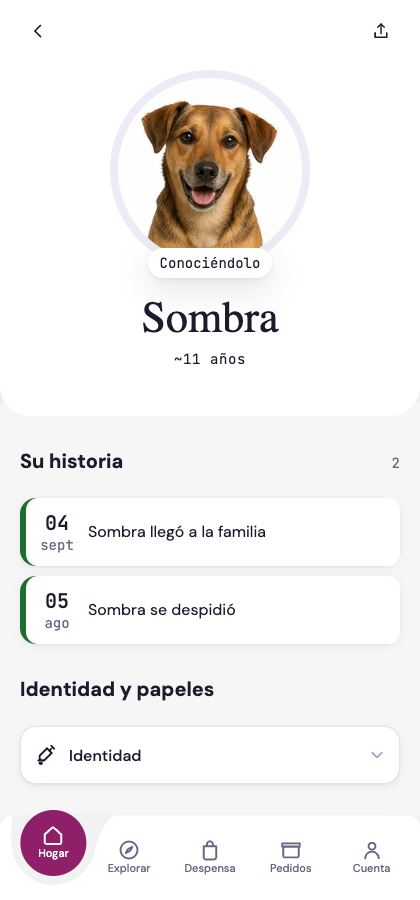
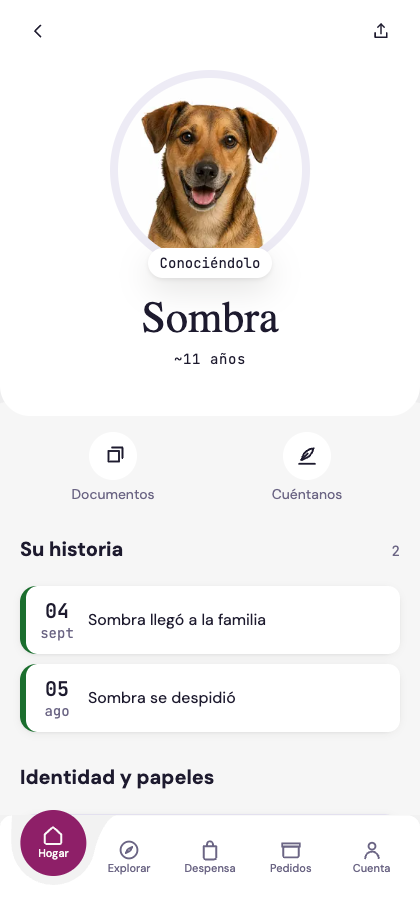
S113-C · 2.2.4 — las cuatro acciones, enchufadas
EL GATE SE PUSO ROJO SOLO. Al mergear B@330d903e,
`verify:documentos-preparado` pasó a rojo sin que nadie lo tocara y dijo qué
hacer: «el bloqueante se fue — enchufá el mecanismo… y borrá este gate, que
existió sólo para que este día no pasara en silencio». Ejecutado: enchufado
y borrado. ☠ *Un gate que cumple su función se retira; el que sobrevive a su
razón es basura que nadie se anima a tocar (Ley 37).*

MEDIDO en web con los tres:
  Thor    Citas · Pasaporte y QR · Documentos · Cuéntanos
  Lolo    Citas · Pasaporte y QR · Documentos · Cuéntanos
  Sombra  Documentos · Cuéntanos            ← firma del founder
  0 errores de página · orden del perfil ✓ · truncados 0

MEMORIAL: la regla vieja NO cambió — cambió su conjunto.
Antes no se dibujaba ninguna, con la razón «las cuatro piden o llevan a
pedir». Era cierto de las cuatro de entonces: con Nexo adentro y sin
Documentos, ninguna sobrevivía el filtro. *La regla es la misma; lo que
cambió es a qué se le aplica.* Las dos que salen miran hacia adelante
—agendar, encontrar a alguien que se perdió—; las dos que quedan miran lo
que hubo.

DOS ENMIENDAS ADITIVAS A PIEZAS DE B, DECLARADAS (76d)

① FilaAcciones admite DOS. Su tipo era [3]|[4], y su cabecera decía por qué
tres era legal: «es el caso que la pieza ya producía —memorial dejaba tres al
esconder a Nexo—; un tipo que sólo admitiera cuatro habría vuelto inexpresable
un estado que existía». **Es el mismo argumento un paso más allá**: la firma
[…]

diff --git a/apps/cliente/src/app/(tabs)/hogar/mascota/[mascotaId].tsx b/apps/cliente/src/app/(tabs)/hogar/mascota/[mascotaId].tsx
@@ -1431,39 +1431,69 @@ export default function PerfilDeMascota() {
             al morir, el hero cierra contra las acciones. Ley 37: se retira
             entero, no se comenta. */}
 
-        {/* ⭐ **C3 · LAS CUATRO ACCIONES, bajo el hero** (S113-C · 2.2).
-            El brief las pone segundas y tiene razón: *son lo que la familia
-            viene a hacer, y hasta hoy estaban repartidas entre el fondo de la
-            pantalla y tres secciones distintas.*
-            🔴 **En memorial no se dibujan**: las cuatro piden o llevan a pedir
-            (`A3.9`). La historia y la identidad siguen leyéndose abajo. */}
-        {!esMemorial ? (
-          <View style={{ marginTop: spacing[4], paddingHorizontal: spacing[5] }}>
-            <FilaAcciones
-              citas={{
-                etiqueta: t('perfil.accionCitas'),
-                glifo: 'hoy',
-                onPress: () => router.push({ pathname: '/citas/[mascotaId]', params: { mascotaId: mascota.id } }),
-              }}
-              pasaporte={{
-                etiqueta: t('pasaporte.entrada'),
-                glifo: 'carnet',
-                onPress: () => router.push({ pathname: '/hogar/mascota/pasaporte', params: { mascotaId: mascota.id } }),
-              }}
-              /* Nexo no lleva glifo: **su acción es el orbe**, que la pieza
-                 dibuja sola. Pasarle uno sería taparlo con un ícono. */
-              nexo={{
-                etiqueta: t('nexo.titulo'),
-                onPress: () => router.push({ pathname: '/nexo', params: { mascotaId: mascota.id, nombre: mascota.nombre } }),
-              }}
-              contanos={{
-                etiqueta: t('contanos.pastilla'),
-                glifo: 'pluma',
-                onPress: contanos.abrir,
-              }}
-            />
-          </View>
-        ) : null}
+        {/* ⭐ **LAS CUATRO ACCIONES, bajo el hero** (S113-C · 2.2 → 2.2.4).
+            *Son lo que la familia viene a hacer, y hasta 2.2 estaban repartidas
+            entre el fondo de la pantalla y tres secciones distintas.*
+
+            ── QUÉ CAMBIÓ, Y POR QUÉ CADA COSA ─────────────────────────────
+            ☠ **Nexo salió** (orden del founder): *ya está flotante en toda la
+            app, y acá ocupaba un lugar que no necesita.*
+            ⭐ **Entró Documentos**, y su destino es `irADocumentos` — el
+            plegable de «Identidad y papeles», con scroll y desplegado. **Con
+            la bóveda de la fase 3 gana pantalla propia y esta línea cambia**;
+            por eso el destino vive en una función y no acá.
+
+            ── 🔴 EN MEMORIAL VAN DOS, Y ES FIRMA DEL FOUNDER ──────────────
+            *De quien ya no está se siguen leyendo sus papeles y se sigue
+            pudiendo guardar un recuerdo; Citas y Pasaporte no.* Las dos que
+            salen son las que miran hacia adelante —agendar, encontrar a
+            alguien que se perdió—; las dos que quedan miran lo que hubo.
+
+            ⚠ Antes acá no se dibujaba **ninguna**, con la razón «las cuatro
+            piden o llevan a pedir». Era cierto de las cuatro de entonces: con
+            Nexo adentro y sin Documentos, ninguna sobrevivía el filtro. *La
+            regla no cambió: cambió el conjunto al que se le aplica.* */}
+        <View style={{ marginTop: spacing[4], paddingHorizontal: spacing[5] }}>
+          <FilaAcciones
+            acciones={
+              esMemorial
+                ? [
+                    {
+                      etiqueta: t('perfil.documentos'),
+                      glifo: 'documentos',
+                      onPress: irADocumentos,
+                    },
+                    {
+                      etiqueta: t('contanos.pastilla'),
+                      glifo: 'pluma',
+                      onPress: contanos.abrir,
+                    },
+                  ]
+                : [
+                    {
+                      etiqueta: t('perfil.accionCitas'),
+                      glifo: 'hoy',
+                      onPress: () => router.push({ pathname: '/citas/[mascotaId]', params: { mascotaId: mascota.id } }),
+                    },
+                    {
+                      etiqueta: t('pasaporte.entrada'),
+                      glifo: 'carnet',
+                      onPress: () => router.push({ pathname: '/hogar/mascota/pasaporte', params: { mascotaId: mascota.id } }),
+                    },
+                    {
+                      etiqueta: t('perfil.documentos'),
+                      glifo: 'documentos',
+                      onPress: irADocumentos,
+                    },
+                    {
+                      etiqueta: t('contanos.pastilla'),
+                      glifo: 'pluma',
+                      onPress: contanos.abrir,
+                    },
+                  ]
+            }
+          />
+        </View>
 
         {/* ⭐ **LA FRANJA DE SEGURIDAD** (S113-C · 1.1 · C6) — lo que hay que
             saber ANTES de tocar a esta mascota, arriba de todo lo demás.
@@ -1663,31 +1693,46 @@ export default function PerfilDeMascota() {
 
             ⛔ En memorial no se monta: pide (`A3.9`). */}
         {!esMemorial ? (() => {
-          const casillas = [
-            senal !== null && senal.vacunas_total > 0,
-            perfil.desparasitaciones.length > 0,
-            perfil.alergias_estado !== 'sin_registro',
-            pesoVigente !== null,
-            mascota.raza !== null,
-            perfil.medicacion_actual.length > 0,
-          ];
-          const hechas = casillas.filter(Boolean).length;
+          /* ⭐ **LAS CINCO DIMENSIONES DEL VÍNCULO** (S113-B · 2.2.3 → C 2.2.4).
+             B cambió `fraccion: number` por **cinco booleanos** —*cero
+             números, van a las almohadillas y a ningún otro lado*— y acá se
+             mapea lo que la pantalla YA sabe.
+
+             🔴 **`caracter` sale de la LÍNEA DE VIDA, no del perfil.** Medido:
+             `obtenerPerfilMascota` no trae rasgos ni observaciones de
+             comportamiento; lo que sí llega son sus eventos
+             (`observacion_comportamiento`, 6 en Thor). *Poner `false` porque el
+             lector no lo trae sería afirmar que no tiene carácter registrado
+             cuando lo que pasa es que no lo estoy mirando.*
+             ⚠ Su límite, declarado: si la familia carga rasgos y el timeline
+             todavía no los trajo, esta dimensión se ve apagada un momento. Se
+             cierra el día que el perfil lea `cat_rasgos` — pedido a A. */
+          const dimensiones = {
+            identidad: mascota.raza !== null,
+            salud: senal !== null && senal.vacunas_total > 0,
+            cuerpo: pesoVigente !== null,
+            /* `items` puede ser `'error'`: **un fallo de carga no es una
+               ausencia de carácter**, así que se lee como «todavía no sé» —
+               que en un booleano es `false`, y la almohadilla apagada dice
+               justo eso: falta, no que no exista. */
+            caracter:
+              Array.isArray(items) &&
+              items.some((it) => it.tipo === 'observacion_comportamiento' || it.tipo === 'bitacora_familia'),
+            diaADia: perfil.desparasitaciones.length > 0 || perfil.medicacion_actual.length > 0,
+          };
+          const cuantas = Object.values(dimensiones).filter(Boolean).length;
+          const total = Object.keys(dimensiones).length;
           return (
             <View style={{ marginTop: spacing[8], paddingHorizontal: spacing[5], gap: spacing[3] }}>
               <Texto variante="seccion">{t('perfil.conociendoloTitulo')}</Texto>
-              {/* ⭐ **EL ESTADO COMPLETO LLEGA** (ojo del founder, 2.2.2 · ⑤).
-                  Con 6 de 6 la tarjeta decía «Completa lo que falta»: *pedirle
-                  a la familia que complete algo que ya completó le enseña que
-                  lo que cuenta no se registra.* B construyó los dos estados y
-                  su tipo los separa; lo que faltaba era que la pantalla dijera
-                  en cuál está. */}
-              {hechas === casillas.length ? (
+              {/* El estado completo llega cuando las CINCO están: la pieza
+                  felicita en vez de pedir (ojo del founder, 2.2.2 · ⑤). */}
+              {cuantas === total ? (
                 <TarjetaConociendolo
-                  fraccion={1}
-                  voz={t('perfil.conociendoloVoz', { n: hechas, total: casillas.length, nombre: mascota.nombre })}
+                  dimensiones={dimensiones}
+                  voz={t('perfil.conociendoloVoz', { n: cuantas, total, nombre: mascota.nombre })}
                   completo
                   vozFelicitacion={t('perfil.conociendoloCompleto', { nombre: mascota.nombre })}
-                  /* Sin urgencia: la puerta queda, el pedido no. */
                   masSobre={
                     <BotonContanos
                       etiqueta={t('perfil.conociendoloMas', { nombre: mascota.nombre })}
@@ -1697,8 +1742,8 @@ export default function PerfilDeMascota() {
                 />
               ) : (
                 <TarjetaConociendolo
-                  fraccion={hechas / casillas.length}
-                  voz={t('perfil.conociendoloVoz', { n: hechas, total: casillas.length, nombre: mascota.nombre })}
+                  dimensiones={dimensiones}
+                  voz={t('perfil.conociendoloVoz', { n: cuantas, total, nombre: mascota.nombre })}
                   invitacion={
                     <BotonContanos
                       etiqueta={t('perfil.conociendoloInvita', { nombre: mascota.nombre })}

diff --git a/packages/ui/src/components/FilaAcciones.tsx b/packages/ui/src/components/FilaAcciones.tsx
@@ -26,6 +26,17 @@
  * pieza ya producía —memorial dejaba tres al esconder a Nexo—. *Un tipo que
  * sólo admitiera cuatro habría vuelto inexpresable un estado que existía.*
  *
+ * ⭐ **DOS TAMBIÉN, y es el MISMO argumento** (enmienda aditiva de la pista C,
+ * 76(d), S113 · 2.2.4). El hueco que esta cabecera declaraba —*¿«Cuéntanos»
+ * corresponde en memorial? Es del founder, no mía*— **lo contestó el founder**:
+ * en memorial van **DOS**, Documentos y Cuéntanos. *De quien ya no está se
+ * siguen leyendo sus papeles y se sigue pudiendo guardar un recuerdo; Citas y
+ * Pasaporte no.*
+ * El piso de tres venía del caso «memorial esconde a Nexo», que esa firma
+ * acaba de retirar — así que sostenerlo hoy volvería inexpresable el estado
+ * que la firma creó. **El techo de cuatro NO se toca**: la razón de arriba
+ * sigue entera.
+ *
  * ── ☠ LA EXCEPCIÓN DE MEMORIAL MURIÓ CON SU SUJETO ─────────────────────
  * Acá la pieza escondía **la acción de Nexo** en memorial (`MODELO_LOYALTY`
  * §7.1). Esa regla no era sobre la POSICIÓN: era sobre el Coach — *una acción
@@ -89,7 +100,9 @@ export interface FilaAccionesProps {
    * 🔴 **TRES O CUATRO — el compilador no deja escribir la quinta.** Ver la
    * cabecera. El orden es el que se dibuja: la pieza no reordena.
    */
-  acciones: readonly [AccionPerfil, AccionPerfil, AccionPerfil]
+  acciones:
+    | readonly [AccionPerfil, AccionPerfil]
+    | readonly [AccionPerfil, AccionPerfil, AccionPerfil]
     | readonly [AccionPerfil, AccionPerfil, AccionPerfil, AccionPerfil]
   /** Qué hacer al tocar una apagada: la pantalla dice la razón **en una
    *  línea**. La pieza no elige el vehículo. */

diff --git a/docs/loop/S113-C-2.2-censo.md b/docs/loop/S113-C-2.2-censo.md
@@ -344,7 +344,7 @@ siempre.** No tiene síntoma: compila, no rompe nada, y *su silencio se lee como
 salud cada vez que alguien corre los gates.* El día que el bloqueante
 desaparece nadie se entera, porque lo que cambió está en el archivo de otro.
 
-Nace **`verify:documentos-preparado`**, que mira las dos cosas: que el
+Nace **`verify-documentos-preparado`** ☠ *(muerto en 2.2.4 — ver abajo)*, que mira las dos cosas: que el
 mecanismo siga entero de este lado, y que `FilaAcciones` **siga sin** aceptar el
 cuarto slot. **Cuando B lo entregue, este gate se pone ROJO** y su rojo dice qué
 hacer: enchufar `irADocumentos` y borrarlo. *Un gate atado a un bloqueante ajeno
@@ -364,3 +364,59 @@ sigue cerrada», jamás «el scroll aterriza bien»* — eso se mira en una capt
 por eso la captura está arriba.
 
 **Medido en `pista/s113-b-2.2.2`: el slot sigue siendo `nexo: AccionPerfil`.**
+
+---
+
+# 2.2.4 · las cuatro acciones, enchufadas
+
+**El gate se puso rojo solo.** Al mergear `pista/s113-b-2.2.3 @ 330d903e`,
+`verify-documentos-preparado` ☠ pasó a rojo sin que nadie lo tocara y dijo qué
+hacer: *«el bloqueante se fue — enchufá el mecanismo… y borrá este gate, que
+existió sólo para que este día no pasara en silencio»*. **Ejecutado: enchufado
+y borrado.** ☠ *Un gate que cumple su función se retira; el que sobrevive a su
+razón es basura que nadie se anima a tocar (Ley 37).*
+
+```
+Thor    Citas · Pasaporte y QR · Documentos · Cuéntanos
+Lolo    Citas · Pasaporte y QR · Documentos · Cuéntanos
+Sombra  Documentos · Cuéntanos                    ← firma del founder
+```
+
+## Memorial: dos, y la regla vieja no cambió — cambió su conjunto
+
+Antes acá **no se dibujaba ninguna**, con la razón «las cuatro piden o llevan a
+pedir». Era cierto de las cuatro de entonces: con Nexo adentro y sin
+Documentos, ninguna sobrevivía el filtro. *La regla es la misma; lo que cambió
+es a qué se le aplica.* Las dos que salen miran hacia adelante —agendar,
+encontrar a alguien que se perdió—; **las dos que quedan miran lo que hubo.**
+
+## Dos enmiendas aditivas a piezas de B, declaradas (76(d))
+
+**① `FilaAcciones` admite DOS.** Su tipo era `[3] | [4]`, y su cabecera decía
+por qué tres era legal: *«es el caso que la pieza ya producía —memorial dejaba
+tres al esconder a Nexo—; un tipo que sólo admitiera cuatro habría vuelto
+inexpresable un estado que existía»*. **Es exactamente el mismo argumento un
+paso más allá**: la firma del founder retiró ese caso y creó el de dos, y
+sostener el piso de tres volvería inexpresable el estado nuevo. **El techo de
+cuatro no se tocó** — su razón sigue entera.
+
+Y el hueco que B declaró —*«¿«Cuéntanos» corresponde en memorial? Es del
+founder, no mía»*— **quedó contestado**, no borrado.
+
+**② `TarjetaConociendolo` pasó de `fraccion` a cinco booleanos** y la pantalla
+los mapea con lo que ya sabe: identidad ← raza · salud ← vacunas · cuerpo ←
+peso · **carácter ← la línea de vida** · día a día ← desparasitación o
+medicación.
+
+🔴 **`caracter` sale del timeline y no del perfil, y eso es una decisión.**
+Medido: `obtenerPerfilMascota` **no trae rasgos ni observaciones de
+comportamiento**; lo que sí llega son sus eventos (`observacion_comportamiento`,
+6 en Thor). *Poner `false` porque el lector no lo trae sería afirmar que no
+tiene carácter registrado cuando lo que pasa es que no lo estoy mirando.*
+⚠ Su límite, declarado: si la familia carga rasgos y el timeline todavía no
+los trajo, la almohadilla se ve apagada un momento. **PIDO A A** que el perfil
+lea `cat_rasgos`; con eso cierra sola.
+
+⚠ Y `items` puede ser `'error'`: **un fallo de carga no es una ausencia de
+carácter.** Se lee como «todavía no sé» — que en un booleano es `false`, y la
+almohadilla apagada dice justo eso: falta, no que no exista.
